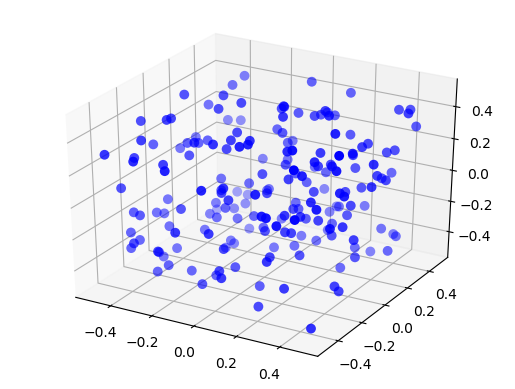
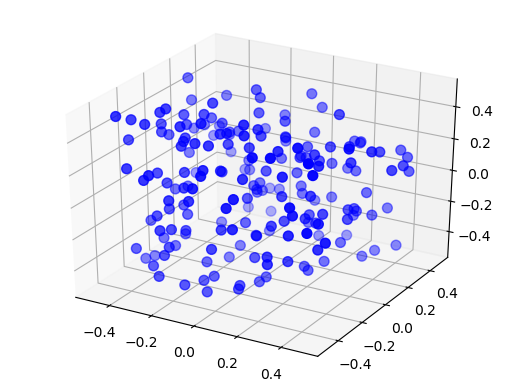
Updated 'layers' part of strucurally spatial networks guide

diff --git a/doc/topology/user_manual_scripts/layers.py b/doc/topology/user_manual_scripts/layers.py
@@ -162,18 +162,18 @@ plt.savefig('../user_manual_figures/layer3.png', bbox_inches='tight')
 nest.ResetKernel()
 
 #{ layer3a #}
-nc, nr = 5, 3
+nx, ny = 5, 3
 d = 0.1
 l = nest.Create('iaf_psc_alpha',
                 positions=nest.spatial.grid(
-                    shape=[nc, nr],
-                    extent=[nc * d, nr * d],
-                    center=[nc * d / 2., 0.]))
+                    shape=[nx, ny],
+                    extent=[nx * d, ny * d],
+                    center=[nx * d / 2., 0.]))
 #{ end #}
 
 fig = nest.PlotLayer(l, nodesize=100)
 plt.plot(0, 0, 'x', markersize=20, c='k', mew=3)
-plt.plot(nc * d / 2, 0, 'o', markersize=20, c='k', mew=3, mfc='none',
+plt.plot(nx * d / 2, 0, 'o', markersize=20, c='k', mew=3, mfc='none',
          zorder=100)
 beautify_layer(l, fig, xlabel='x-axis (columns)', ylabel='y-axis (rows)',
                xticks=np.arange(0., 0.501, 0.05),
@@ -187,7 +187,7 @@ plt.savefig('../user_manual_figures/layer3a.png', bbox_inches='tight')
 nest.ResetKernel()
 
 #{ layer4 #}
-pos = nest.spatial.free(nest.random.uniform(min=-0.5, max=0.5),
+pos = nest.spatial.free(pos=nest.random.uniform(min=-0.5, max=0.5),
                         num_dimensions=2)
 l = nest.Create('iaf_psc_alpha', 50,
                 positions=pos)
@@ -204,6 +204,23 @@ plt.savefig('../user_manual_figures/layer4.png', bbox_inches='tight')
 
 nest.ResetKernel()
 
+#{ layer4b #}
+pos = nest.spatial.free(pos=[[-0.5, -0.5], [-0.25, -0.25], [0.75, 0.75]])
+l = nest.Create('iaf_psc_alpha', positions=pos)
+#{ end #}
+
+fig = nest.PlotLayer(l, nodesize=50)
+beautify_layer(l, fig, xlabel='x-axis (columns)', ylabel='y-axis (rows)',
+               xlim=[-0.55, 0.80], ylim=[-0.55, 0.80],
+               xticks=[-0.75, -0.5, -0.25, 0., 0.25, 0.5, 0.75, 1.],
+               yticks=[-0.75, -0.5, -0.25, 0., 0.25, 0.5, 0.75, 1.])
+
+plt.savefig('../user_manual_figures/layer4b.png', bbox_inches='tight')
+
+# --------------------------------------------------
+
+nest.ResetKernel()
+
 #{ layer4_3d #}
 pos = nest.spatial.free(nest.random.uniform(min=-0.5, max=0.5),
                         num_dimensions=3)
@@ -213,7 +230,20 @@ l = nest.Create('iaf_psc_alpha', 200,
 
 fig = nest.PlotLayer(l, nodesize=50)
 
-# plt.savefig('../user_manual_figures/layer4_3d.png', bbox_inches='tight')
+plt.savefig('../user_manual_figures/layer4_3d.png', bbox_inches='tight')
+
+# --------------------------------------------------
+
+nest.ResetKernel()
+
+#{ layer4_3d_b #}
+pos = nest.spatial.grid(shape=[4, 5, 6])
+l = nest.Create('iaf_psc_alpha', positions=pos)
+#{ end #}
+
+fig = nest.PlotLayer(l, nodesize=50)
+
+plt.savefig('../user_manual_figures/layer4_3d_b.png', bbox_inches='tight')
 
 # --------------------------------------------------
 
@@ -288,21 +318,6 @@ l2 = nest.Create('poisson_generator',
 print("#{ layer6 #}")
 nest.PrintNodes()
 print("#{ end #}")
-
-# --------------------------------------------------
-
-nest.ResetKernel()
-
-# TODO: Find out how to do this in a clean way.
-#{ layer10 #}
-# for lyr in ['L23', 'L4', 'L56']:
-#     nest.CopyModel('iaf_psc_alpha', lyr + 'pyr')
-#     nest.CopyModel('iaf_psc_alpha', lyr + 'in', {'V_th': -52.})
-# l = tp.CreateLayer({'rows': 20, 'columns': 20, 'extent': [0.5, 0.5],
-#                     'elements': ['L23pyr', 3, 'L23in',
-#                                  'L4pyr', 3, 'L4in',
-#                                  'L56pyr', 3, 'L56in']})
-#{ end #}
 
 # --------------------------------------------------
 

diff --git a/doc/guides/guide_structurally_spatial_networks.rst b/doc/guides/guide_structurally_spatial_networks.rst
@@ -47,15 +47,16 @@ Undocumented features
 
 .. _sec:layers:
 
-Layers
-------
+Structurally distributed nodes
+------------------------------
 
-Neuronal networks can have an organized spatial distribution or *layers*. Layers in NEST 3.0
+Neuronal networks can have an organized spatial distribution, which we call *layers*. Layers in NEST 3.0
 are NodeCollections with spatial metadata. We will first
-illustrate how to place elements in simple layers, where each
-element is a single model neuron.
+illustrate how to place elements in simple grid-like layers, where each
+element is a single model neuron, before describing how the elements can be placed
+freely in space.
 
-We will illustrate the definition and use of layers using examples.
+We will illustrate the definition and use of spatially distributed NodeCollections using examples.
 
 NEST distinguishes between two classes of layers:
 
@@ -75,8 +76,8 @@ Grid-based Layers
 
 .. _sec:verysimple:
 
-A very simple layer
-^^^^^^^^^^^^^^^^^^^
+A very simple example
+^^^^^^^^^^^^^^^^^^^^^
 
 We create a first, grid-based simple layer with the following command:
 
@@ -89,17 +90,19 @@ We create a first, grid-based simple layer with the following command:
 .. figure:: ../topology/user_manual_figures/layer1.png
    :name: fig:layer1
 
-   Simple grid-based layer centered about the origin. Blue circles mark
-   layer elements, the thin square the extent of the layer. Row and
+   Simple grid-based NodeCollection centered about the origin. Blue circles mark
+   the elements, the thin square the extent of the layer. Row and
    column indices are shown in the right and top margins, respectively.
 
 The layer is shown in :numref:`fig_layer1`. Note the following properties:
 
-- We are using the standard ``Create`` function, but in addition to model
-  type, we are also passing a ``nest.spatial.grid`` object as the
-  ``positions`` argument.
+-  We are using the standard ``Create`` function, but in addition to model
+   type, we are also passing a ``nest.spatial.grid`` object as the
+   ``positions`` argument.
 
--  The layer has five *rows* and five *columns*.
+-  The layer has five *rows* and five *columns*, as given by ``shape=[columns, rows]``.
+   Note that a more intuitive way of thinking of *shape* is to think of it as given by
+   ``shape=[num_x, num_y]``.
 
 -  The *center* of the layer is at the origin of the coordinate system,
    :math:`(0,0)`.
@@ -160,7 +163,7 @@ different extent of a layer, i.e., its size in :math:`x`- and
    Same layer as in :numref:`fig_layer1`, but with different extent.
 
 The resulting layer is shown in :numref:`fig_layer2`. The extent is always
-a two-element tuple of floats. In this example, we have grid spacings
+a two-element list of floats. In this example, we have grid spacings
 :math:`dx=0.4` and :math:`dy=0.1`. Changing the extent does not affect
 grid indices.
 
@@ -192,7 +195,7 @@ The following code creates layers centered about :math:`(0,0)`,
    Three layers centered, respectively, about :math:`(0,0)` (blue),
    :math:`(-1,-1)` (green), and :math:`(1.5,0.5)` (red).
 
-The center is given as a two-element tuple of floats. Changing the
+The center is given as a two-element list of floats. Changing the
 center does not affect grid indices: For each of the three layers in
  :numref:`fig_layer3`, grid indices run from 0 to 4 through columns and
 rows, respectively, even though elements in these three layers have
@@ -209,7 +212,7 @@ Constructing a layer: an example
 
 To see how to construct a layer, consider the following example:
 
--  a layer with :math:`n_r` rows and :math:`n_c` columns;
+-  a layer with :math:`n_y` rows and :math:`n_x` columns;
 
 -  spacing between nodes is :math:`d` in :math:`x`- and
    :math:`y`-directions;
@@ -219,13 +222,13 @@ To see how to construct a layer, consider the following example:
 -  the extent shall be centered about :math:`y=0`.
 
 From Eq. :numref:`dx_dy_extent`, we see that the extent of the layer must be
-:math:`(n_c d, n_r d)`. We now need to find the coordinates
+:math:`(n_x d, n_y d)`. We now need to find the coordinates
 :math:`(c_x, c_y)` of the center of the layer. To place the left edge of
 the extent at :math:`x=0`, we must place the center of the layer at
-:math:`c_x=n_c d / 2` along the :math:`x`-axis, i.e., half the extent
+:math:`c_x=n_x d / 2` along the :math:`x`-axis, i.e., half the extent
 width to the right of :math:`x=0`. Since the layer is to be centered
 about :math:`y=0`, we have :math:`c_y=0`. Thus, the center coordinates
-are :math:`(n_c d/2, 0)`. The layer is created with the following code
+are :math:`(n_x d/2, 0)`. The layer is created with the following code
 and shown in :numref:`fig_layer3a`:
 
 .. literalinclude:: ../topology/user_manual_scripts/layers.py
@@ -237,7 +240,7 @@ and shown in :numref:`fig_layer3a`:
 .. figure:: ../topology/user_manual_figures/layer3a.png
    :name: fig:layer3a
 
-   Layer with :math:`n_c=5` rows and :math:`n_r=3` columns, spacing
+   Layer with :math:`n_x=5` columns and :math:`n_y=3` rows, spacing
    :math:`d=0.1` and the left edge of the extent at :math:`x=0`,
    centered about the :math:`y`-axis. The cross marks the point on the
    extent placed at the origin :math:`(0,0)`, the circle the center of
@@ -273,14 +276,41 @@ Note the following points:
 -  For free layers, element *positions* are specified by the
    ``nest.spatial.free`` object.
 
--  The ``'positions'`` entry must either be a Python ``list`` (or ``tuple``) of
+-  The ``pos`` entry must either be a Python ``list`` (or ``tuple``) of
    element coordinates, i.e., of two-element tuples of floats giving the
-   (:math:`x`, :math:`y`)-coordinates of the elements, or a parameter object.
+   (:math:`x`, :math:`y`)-coordinates of the elements, or a ``Parameter`` object.
+
+-  When using a Parameter object for the positions, the number of dimensions have to be specified
+   by the ``num_dimensions`` variable. num_dimensions can either be 2 or 3.
+
+-  When using a Parameter object you also need to specify how many elements you want to create
+   by specifying ``'n'`` in the ``Create`` call. This is **not** the case when you pass a list to
+   the ``nest.spatial.free`` object.
+
+-  The extent is automatically set when using ``nest.spatial.free``, however, it
+   is still possible to set the extent yourself by passing the ``extent`` variable to the object.
 
 -  All layer element positions must be *within* the layer’s extent.
    Elements may be placed on the perimeter of the extent as long as no
    periodic boundary conditions are used; see
    Sec. \ :ref:`2.4 <sec:periodic>`.
+
+To create a spatially distributed NodeCollection from a list, do the following:
+
+.. literalinclude:: ../topology/user_manual_scripts/layers.py
+    :start-after: #{ layer4b #}
+    :end-before: #{ end #}
+
+.. _fig_layer4:
+
+.. figure:: ../topology/user_manual_figures/layer4b.png
+   :name: fig:layer4b
+
+   A free layer with 3 elements freely distributed space. The extent is given by the gray lines.
+
+Note that when using a list to specify the positions, neither ``'n'`` nor ``num_dimenstions``
+are specified. Furthermore, the extent is calculated from the node positions, and is here
+:math:`1.45\times 1.45`. The extent could also be set by passing the ``extent`` argument.
 
 .. _sec:3dlayer:
 
@@ -289,8 +319,7 @@ Note the following points:
 
 Although the term “layer” suggests a 2-dimensional structure, the layers
 in NEST may in fact be 3-dimensional. The example from the previous
-section may be easily extended with another component in the coordinates
-for the positions:
+section may be easily extended by updating number of dimensions for the positions:
 
 .. literalinclude:: ../topology/user_manual_scripts/layers.py
     :start-after: #{ layer4_3d #}
@@ -304,6 +333,24 @@ for the positions:
    A free 3D layer with 200 elements uniformly distributed in an extent
    of size :math:`1\times 1\times 1`.
 
+Again it is also possible to specify a list of list to create nodes in a 3-dimensional
+space. Another possibility is to create a 3D grid-layer, with 3 elements passed to
+the shape argument, ``shape=[nx, ny, nz]``:
+
+.. literalinclude:: ../topology/user_manual_scripts/layers.py
+    :start-after: #{ layer4_3d_b #}
+    :end-before: #{ end #}
+
+.. _fig_layer4_3d:
+
+.. figure:: ../topology/user_manual_figures/layer4_3d_b.png
+   :name: fig:layer4_3d_b
+
+   A grid 3D layer with 120 elements distributed on a grid with 4 elements in the x-direction,
+   5 elements in the y-direction and 6 elements in the z-direction, with an extent
+   of size :math:`1\times 1\times 1`.
+
+
 .. _sec:periodic:
 
 Periodic boundary conditions
@@ -313,7 +360,7 @@ Simulations usually model systems much smaller than the biological
 networks we want to study. One problem this entails is that a
 significant proportion of neurons in a model network is close to the
 edges of the network with fewer neighbors than nodes properly inside the
-network. In the :math:`5\times 5`-layer in :numref:`fig_layer1`, e.g., 16
+network. In the :math:`5\times 5`-layer in :numref:`fig_layer1` for instance., 16
 out of 25 nodes form the border of the layer.
 
 One common approach to reducing the effect of boundaries on simulations
@@ -324,8 +371,7 @@ surface of a torus.  :numref:`fig_player` illustrates this for a
 one-dimensional layer, which turns from a line to a ring upon
 introduction of periodic boundary conditions.
 
-You specify periodic boundary conditions for a layer using the
-dictionary entry ``edge_wrap``:
+You specify periodic boundary conditions for a layer using the entry ``edge_wrap``:
 
 .. literalinclude:: ../topology/user_manual_scripts/layers.py
     :start-after: #{ player #}
@@ -363,15 +409,16 @@ Chapter \ :ref:`3 <sec:connections>`.
 .. _sec:subnet:
 
 
-Layers as NEST NodeCollection
-~~~~~~~~~~~~~~~~~~~~~~~~~~~~~
+Layers as NodeCollection
+~~~~~~~~~~~~~~~~~~~~~~~~
 
 From the perspective of NEST, a layer is a special type of
 *NodeCollection*. From the user perspective, the following points may
 be of interest:
 
--  The NodeCollection has a ``spatial`` property describing the layer
-   properties (``l`` is the layer created above):
+-  The NodeCollection has a ``spatial`` property describing the spatial
+   properties of the NodeCollection (``l`` is the layer created at the beginning
+   of this guide):
 
 .. literalinclude:: ../topology/user_manual_scripts/layers.py
     :start-after: #{ layer1s #}
@@ -383,15 +430,15 @@ be of interest:
 
 
 
-The ``spatial`` propery is read-only; changing any values will
+The ``spatial`` property is read-only; changing any value will
 not change properties of the layer.
 
 -  NEST sees the elements of the layer in the same way as the
-   elements of any NodeCollection. NodeCollections created as layers can
+   elements of any other NodeCollection. NodeCollections created as layers can
    therefore be used in the same ways as any standard NodeCollection.
    However, operations requiring a NodeCollection with spatial data (e.g.
    ``Connect`` with spatial dependence, or visualization of layers) can
-   only be used on NodeCollections created as layers.
+   only be used on NodeCollections created with spatial distribution.
 
 .. literalinclude:: ../topology/user_manual_scripts/layers.py
     :start-after: #{ layer1p #}
@@ -400,35 +447,6 @@ not change properties of the layer.
 .. literalinclude:: ../topology/user_manual_scripts/layers.log
     :start-after: #{ layer1p.log #}
     :end-before: #{ end.log #}
-
-.. _sec:layerdesign:
-
-.. TODO: Rewrite this section and code example
-
-Designing layers
-~~~~~~~~~~~~~~~~
-
-A paper on a neural network model might describe the network as
-follows [2]_:
-
-   The network consists of :math:`20x20` microcolumns placed on a
-   regular grid spanning :math:`0.5^\circ\times 0.5^\circ` of visual
-   space. Neurons within each microcolumn are organized into L2/3, L4,
-   and L56 subpopulations. Each subpopulation consists of three
-   pyramidal cells and one interneuron. All pyramidal cells are modeled
-   as NEST ``iaf_psc_alpha`` neurons with default parameter values,
-   while interneurons are ``iaf_psc_alpha`` neurons with threshold
-   voltage :math:`V_{\text{th}}=-52`\ mV.
-
-How should you implement such a network in NEST? The recommended approach
-is to ... :
-
-.. literalinclude:: ../topology/user_manual_scripts/layers.py
-    :start-after: #{ layer10 #}
-    :end-before: #{ end #}
-
-We will discuss in Chapter \ :ref:`3.1 <sec:conn_basics>` how to connect
-selectively to different neuron models.
 
 .. _sec:connections:
 
